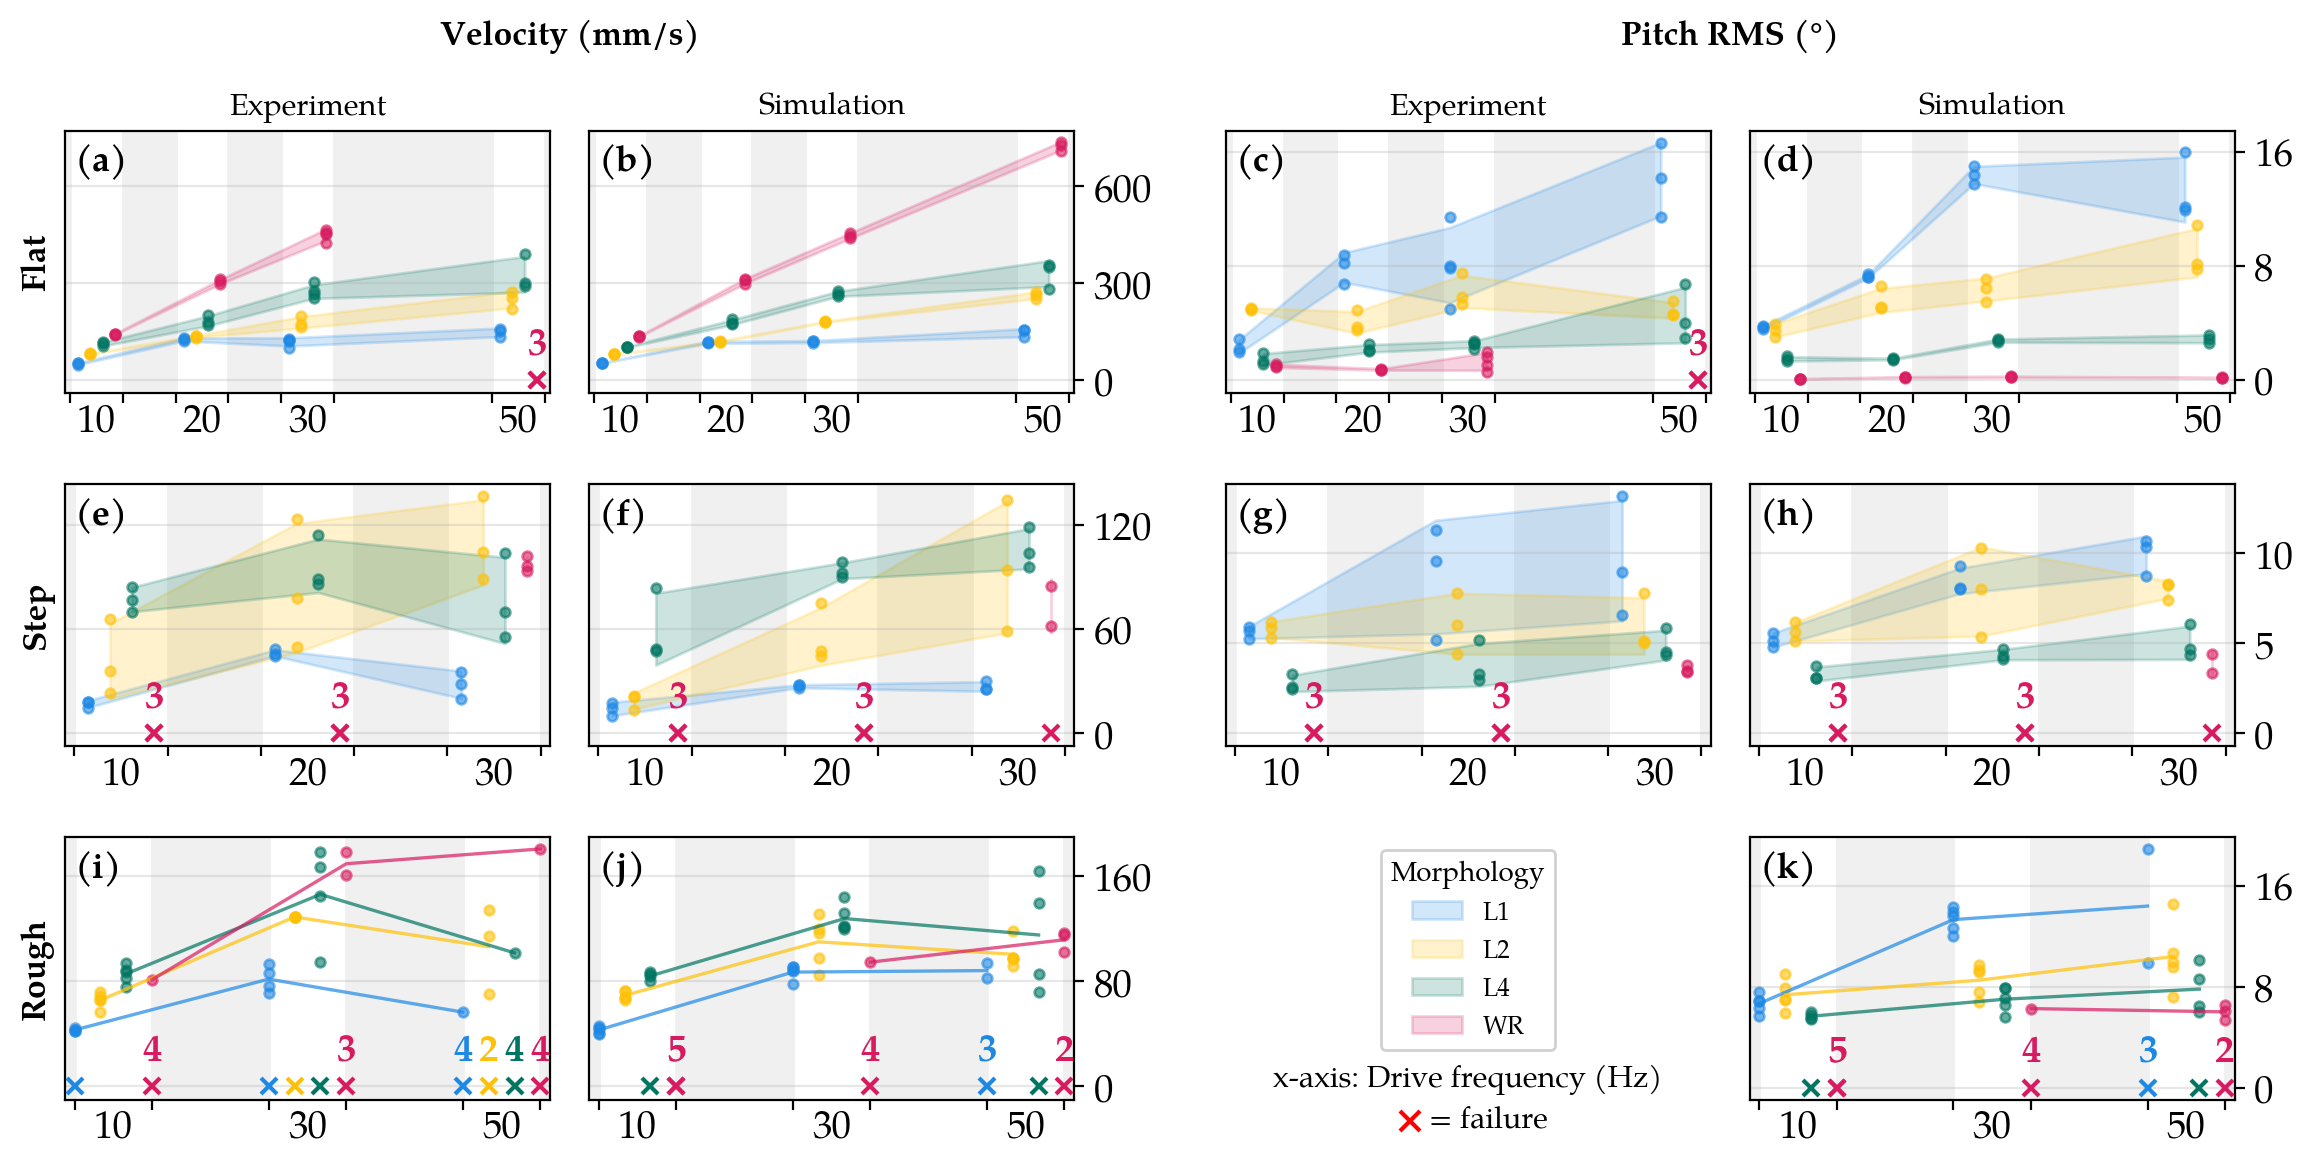
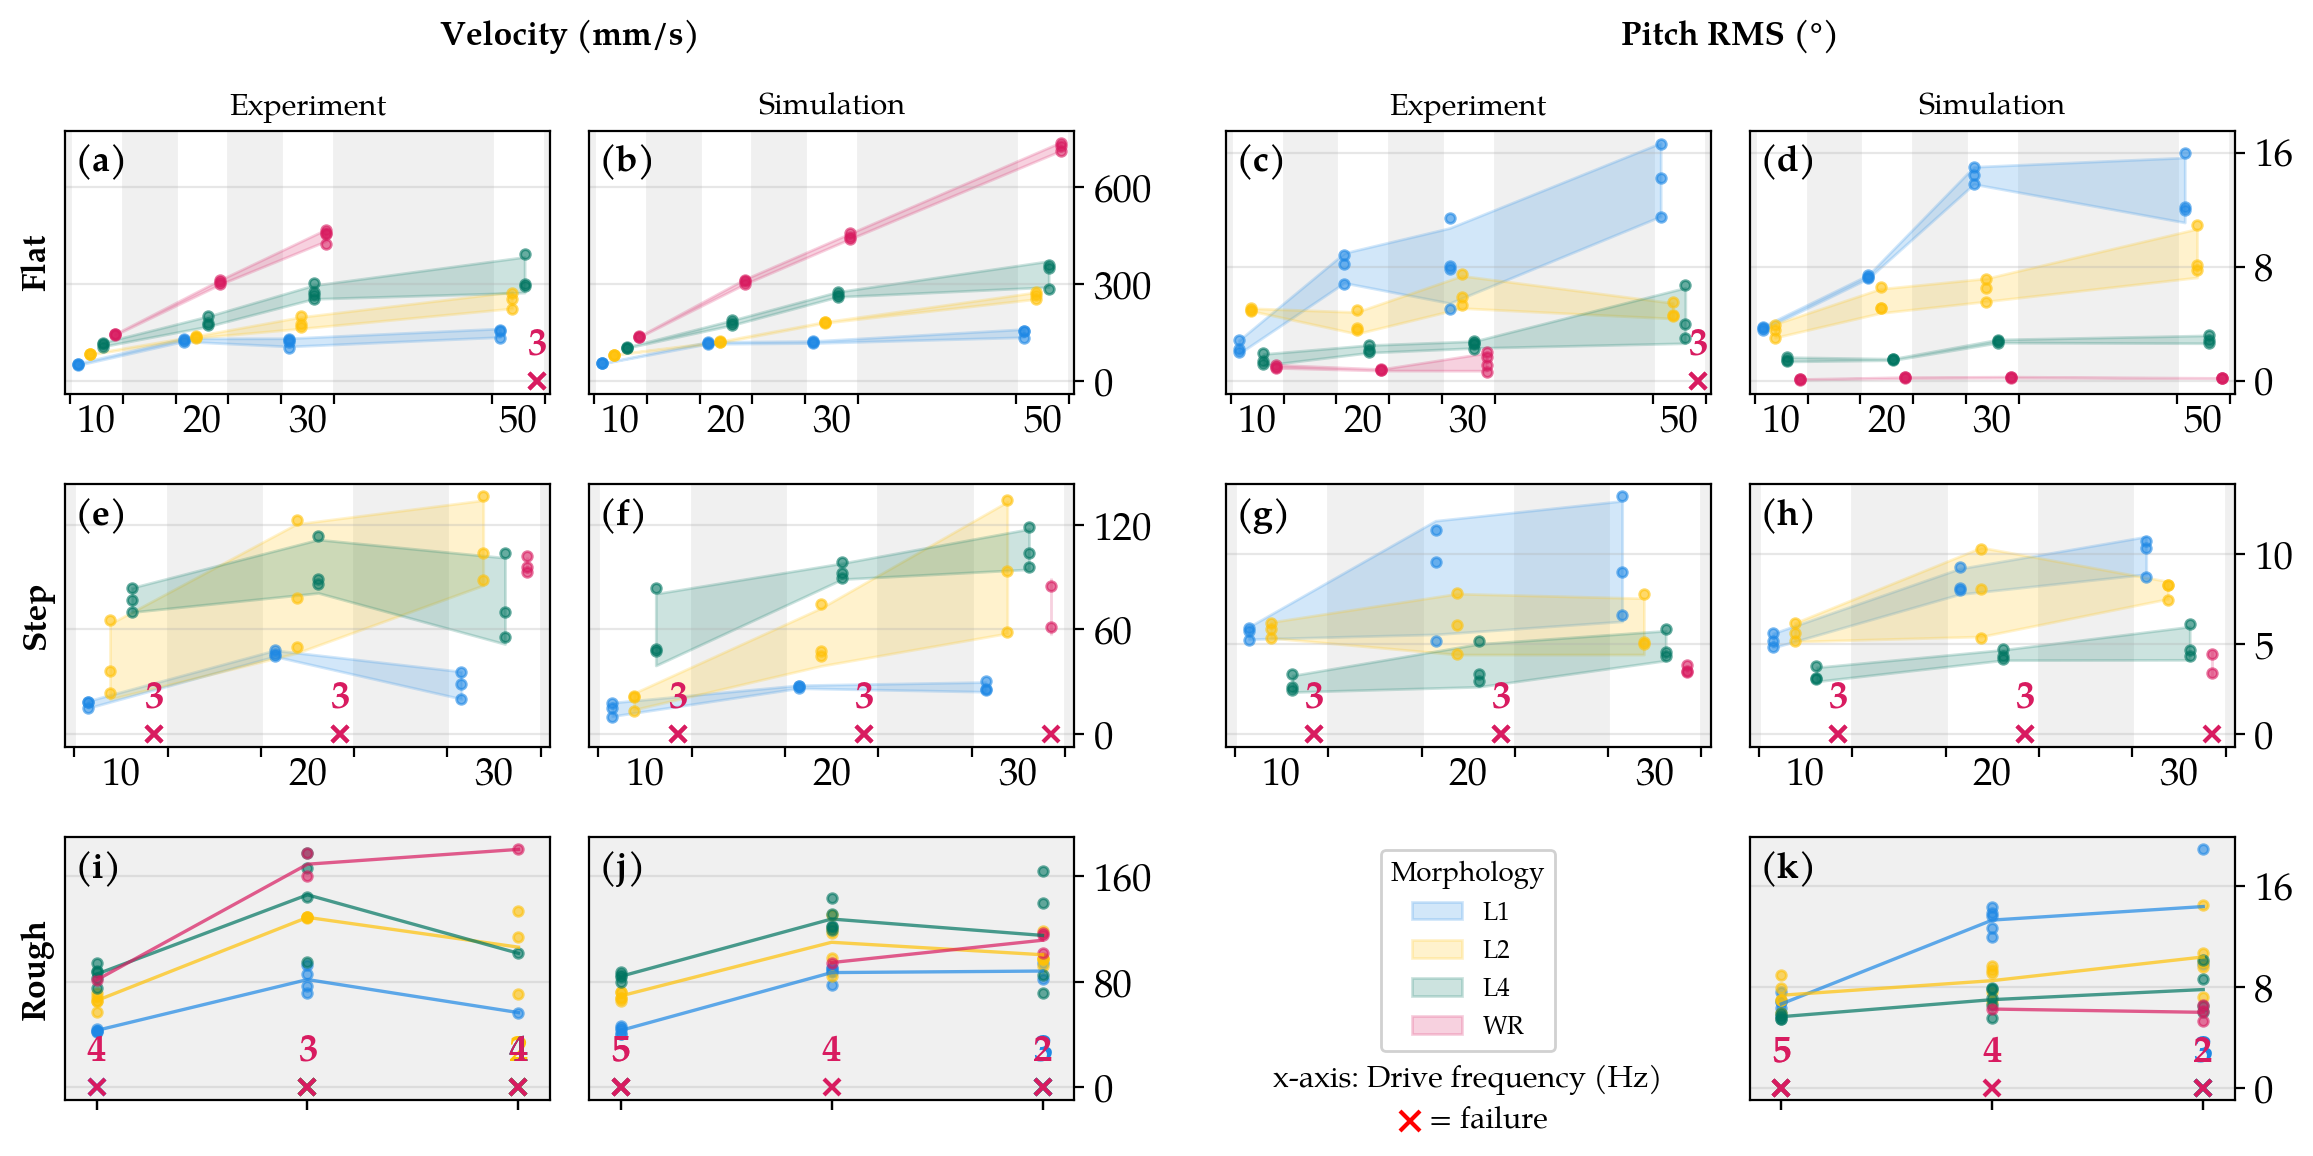
update zero handling

diff --git a/milliquad_opt/config_flat_tg.py b/milliquad_opt/config_flat_tg.py
@@ -180,7 +180,9 @@ def calculate_cost(
         avg_forward_velocity = forward_displacement / active_duration
 
     vel_deviation = avg_forward_velocity - target_velocity
-    if VELOCITY_DEADZONE and speed_std > 0.0 and abs(vel_deviation) <= speed_std:
+    if target_velocity == 0.0:
+        velocity_error = 0.0
+    elif VELOCITY_DEADZONE and speed_std > 0.0 and abs(vel_deviation) <= speed_std:
         velocity_error = 0.0
     elif VELOCITY_DEADZONE and speed_std > 0.0:
         excess = abs(vel_deviation) - speed_std

diff --git a/milliquad_opt/analysis/plot_validation.py b/milliquad_opt/analysis/plot_validation.py
@@ -365,7 +365,7 @@ def plot_panel(
             all_freqs.update(freqs)
     all_freqs_sorted = sorted(all_freqs)
     if all_freqs_sorted:
-        pad = (scatter_dodge_width / 2 + intra_spread / 2 + 1) if scatter_only else 3
+        pad = max(scatter_dodge_width / 2 + intra_spread / 2 + 1, 3) if scatter_only else 3
         ax.set_xlim(all_freqs_sorted[0] - pad, all_freqs_sorted[-1] + pad)
         # Bracket ticks + grey gap bands (unified for all modes)
         if scatter_only:
